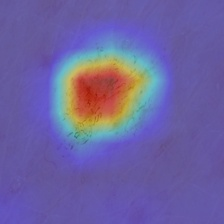
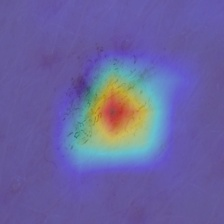
Actualización final

diff --git a/run.py b/run.py
@@ -1,15 +1,11 @@
 import os
 from flask import Flask, render_template, request, redirect
 from modelo_efficientnet import predecir_efficientnet
-from modelo_resnet50 import predecir_resnet 
+from modelo_resnet50 import predecir_resnet
 from gradcam import generar_mapa_gradcam
 
 app = Flask(__name__)
-
 UPLOAD_FOLDER = 'static/uploads'
-if not os.path.exists(UPLOAD_FOLDER):
-    os.makedirs(UPLOAD_FOLDER)
-
 app.config['UPLOAD_FOLDER'] = UPLOAD_FOLDER
 
 CLASES = {
@@ -45,7 +41,11 @@ def index():
                 idx_pred, confianza = predecir_resnet(filepath)
                 resultado_prediccion = CLASES[idx_pred]
             
-            nombre_gradcam = generar_mapa_gradcam(filepath, modelo_seleccionado, idx_pred, app.config['UPLOAD_FOLDER'], file.filename)
+            nombre_gradcam = generar_mapa_gradcam(filepath,
+                                                  modelo_seleccionado,
+                                                  idx_pred,
+                                                  app.config['UPLOAD_FOLDER'],
+                                                  file.filename)
             
             return render_template('index.html', 
                                    imagen_subida=filepath, 

diff --git a/modelo_resnet50.py b/modelo_resnet50.py
@@ -9,11 +9,11 @@ def predecir_resnet(image_path):
     device = torch.device('cuda' if torch.cuda.is_available() else 'cpu')
     
     # 2. Reconstruir la arquitectura exacta del notebook
-    model = models.resnet50(weights=None) # No descargamos los pesos de ImageNet, usaremos los tuyos
+    model = models.resnet50(weights=None) 
     in_features = model.fc.in_features
     model.fc = nn.Linear(in_features, 7)
     
-    # 3. Cargar tus pesos guardados
+    # 3. Cargar los pesos guardados
     model.load_state_dict(torch.load('pesos_resnet50.pth', map_location=device))
     model = model.to(device)
     model.eval()
@@ -27,7 +27,7 @@ def predecir_resnet(image_path):
     
     # 5. Procesar la imagen
     img = Image.open(image_path).convert('RGB')
-    img_t = val_tx(img).unsqueeze(0).to(device) # Añadimos dimensión de batch
+    img_t = val_tx(img).unsqueeze(0).to(device)
     
     # 6. Predicción e inferencia de confianza
     with torch.no_grad():

diff --git a/modelo_efficientnet.py b/modelo_efficientnet.py
@@ -7,7 +7,6 @@ from PIL import Image
 model = models.efficientnet_b0()
 model.classifier[1] = nn.Linear(model.classifier[1].in_features, 7)
 
-# Cambiamos 'modelo_skin.pth' por el nuevo nombre exacto:
 model.load_state_dict(torch.load('pesos_efficientnet.pth', map_location='cpu'))
 model.eval()
 